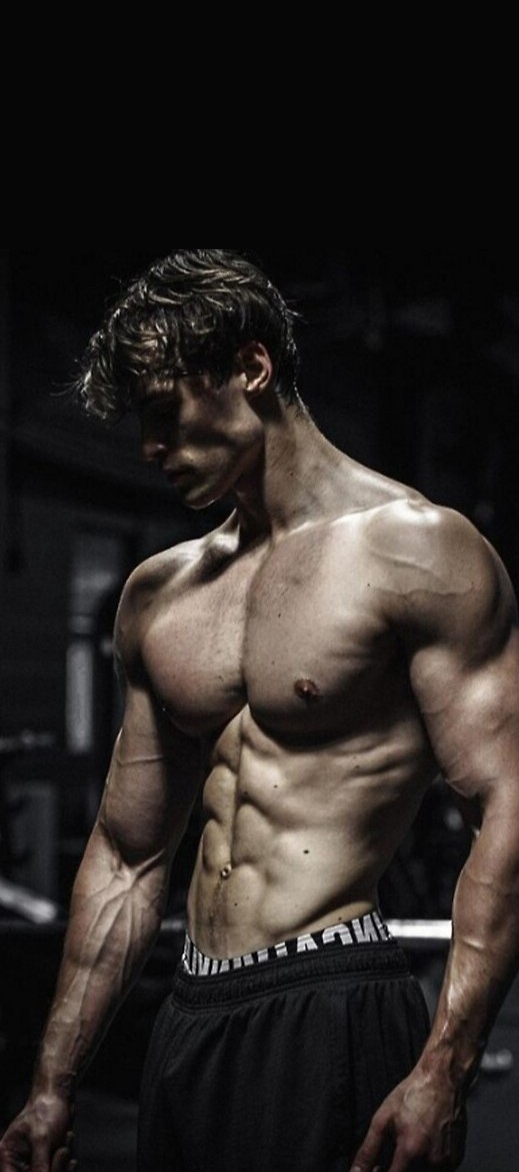
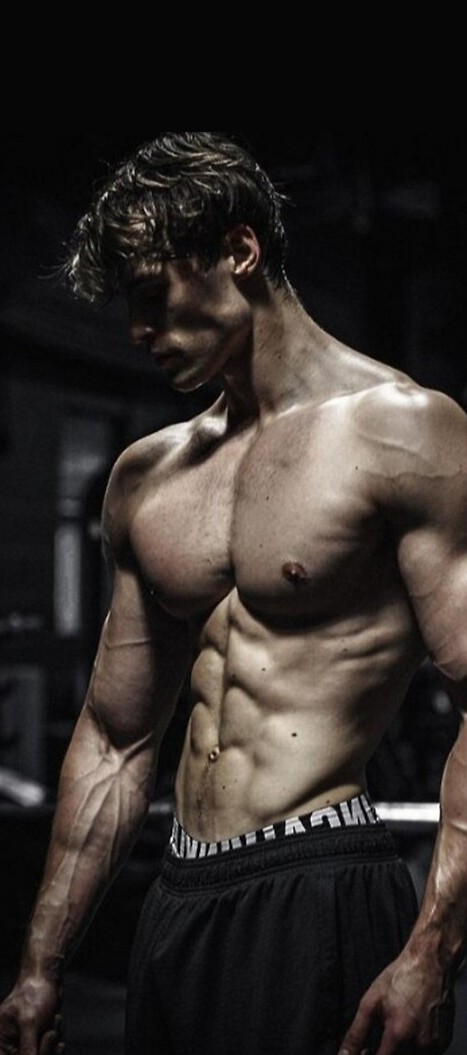
recomendacao treino update

diff --git a/src/pages/RecomendacaoTreino.jsx b/src/pages/RecomendacaoTreino.jsx
@@ -8,18 +8,18 @@ import davidLaidPc from "../data/images/david-recomendacao-treinopc.jpg";
 
 function RecomendacaoTreino() {
   return (
-    <Container className="relative min-h-real w-screen bg-brand-bgDarkGray overflow-hidden lg:pl-56">
+    <Container className="relative min-h-real w-screen overflow-hidden bg-brand-bgDarkGray">
+      {/* Imagem com fade */}
+      <div className="relative h-[60vh] md:h-[60vh] lg:h-[65vh] w-full overflow-hidden">
 
-      {/* Imagem */}
-      <div className="relative h-[55vh] md:h-[60vh] lg:h-[65vh] w-full overflow-hidden">
 
         {/* Mobile */}
-        <div className="block lg:hidden">
+        <div className="block sm:hidden">
           <Img src={davidLaid} alt="David Laid" />
         </div>
 
         {/* Desktop */}
-        <div className="hidden lg:block">
+        <div className="hidden sm:block">
           <Img src={davidLaidPc} alt="David Laid (desktop)" />
         </div>
 
@@ -27,46 +27,20 @@ function RecomendacaoTreino() {
         <div className="absolute inset-0 bg-gradient-to-t from-brand-bgDarkGray via-brand-bgDarkGray/20 to-transparent" />
       </div>
 
-      {/* Conteúdo – mesma estrutura da Nutrição */}
-      <Container
-        className="
-          relative 
-          -mt-24 sm:-mt-28 md:-mt-32 lg:-mt-36 
-          pb-20 sm:pb-24 md:pb-28 lg:pb-32 
-          px-4 sm:px-6 md:px-8 lg:px-10
-          text-white text-center flex flex-col items-center
-          w-full max-w-screen-xl mx-auto
-        "
-      >
+      {/* Conteúdo */}
+      <Container className="relative -mt-24 sm:-mt-28 md:-mt-32 lg:-mt-36 pb-20 sm:pb-24 md:pb-28 lg:pb-32 px-4 sm:px-6 md:px-8 lg:px-10 text-white text-center flex flex-col items-center w-full max-w-screen-xl mx-auto">
+        <Logo />
 
-        {/* Logo só no mobile */}
-        <div className="lg:hidden mb-5">
-          <Logo className="h-20 w-20" />
-        </div>
+        <Title className="text-3xl sm:text-3xl md:text-4xl font-extrabold mb-6 text-white">
+          Monte seu treino
+        </Title>
 
-        {/* Posição idêntica à nutricional */}
-        <div className="lg:absolute lg:top-56">
-          <Title className="text-4xl sm:text-4xl lg:mb-12 lg:text-4xl font-extrabold mb-6">
-            Monte seu treino
-          </Title>
-
-          <Button
-            page="/recomendacao-treino/formulario/iniciar"
-            className="
-              w-full max-w-xs 
-              px-14 py-5 lg:px-40
-              rounded-full font-medium
-              text-white text-xl 
-              shadow-lg transition 
-              bg-gradient-to-r from-brand-button1Violet to-brand-button2Purple
-              hover:opacity-90 hover:scale-105 transform
-              lg:font-semibold
-            "
-          >
-            Começar
-          </Button>
-        </div>
-
+        <Button
+          page="/recomendacao-treino/formulario/iniciar"
+          className="w-full max-w-xs px-12 py-4 rounded-full text-white text-base font-medium shadow-lg transition bg-gradient-to-r from-brand-button1Violet to-brand-button2Purple hover:opacity-90 hover:scale-105 transform"
+        >
+          Começar
+        </Button>
       </Container>
     </Container>
   );
